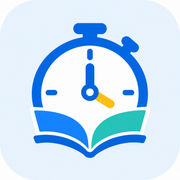
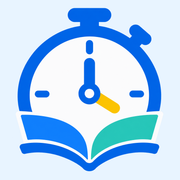
تعديل حجم الشعار

diff --git a/src/app/manifest.ts b/src/app/manifest.ts
@@ -3,9 +3,9 @@ import type { MetadataRoute } from "next";
 export default function manifest(): MetadataRoute.Manifest {
   return {
     id: "/",
-    name: "جدول الحصص",
-    short_name: "جدول الحصص",
-    description: "لوحة لعرض جدول الحصص اليومي وإدارته",
+    name: "مؤقت الحصص",
+    short_name: "مؤقت الحصص",
+    description: "مؤقت لمتابعة الحصص اليومية وإدارة مواعيدها",
     lang: "ar",
     dir: "rtl",
     start_url: "/",
@@ -14,9 +14,9 @@ export default function manifest(): MetadataRoute.Manifest {
     background_color: "#f1f5f9",
     theme_color: "#0066df",
     icons: [
-      { src: "/icons/icon-192.png", sizes: "192x192", type: "image/png", purpose: "any" },
-      { src: "/icons/icon-512.png", sizes: "512x512", type: "image/png", purpose: "any" },
-      { src: "/icons/icon-maskable-512.png", sizes: "512x512", type: "image/png", purpose: "maskable" },
+      { src: "/icons/icon-192.png?v=2", sizes: "192x192", type: "image/png", purpose: "any" },
+      { src: "/icons/icon-512.png?v=2", sizes: "512x512", type: "image/png", purpose: "any" },
+      { src: "/icons/icon-maskable-512.png?v=2", sizes: "512x512", type: "image/png", purpose: "maskable" },
     ],
   };
 }

diff --git a/src/app/layout.tsx b/src/app/layout.tsx
@@ -20,10 +20,10 @@ const cairo = Cairo({
 });
 
 export const metadata: Metadata = {
-  title: "جدول الحصص",
-  applicationName: "جدول الحصص",
-  appleWebApp: { capable: true, title: "جدول الحصص", statusBarStyle: "default" },
-  description: "لوحة لعرض جدول الحصص اليومي وإدارته",
+  title: "مؤقت الحصص",
+  applicationName: "مؤقت الحصص",
+  appleWebApp: { capable: true, title: "مؤقت الحصص", statusBarStyle: "default" },
+  description: "مؤقت لمتابعة الحصص اليومية وإدارة مواعيدها",
 };
 
 export const viewport: Viewport = { themeColor: "#0066df" };

diff --git a/src/app/page.tsx b/src/app/page.tsx
@@ -40,7 +40,7 @@ export default async function Home() {
     <main className="w-full max-w-full px-4 py-8 space-y-6 lg:px-10">
       <header className="flex items-center justify-between">
         <div>
-          <p className="text-sm text-slate-500">جدول الحصص اليومية</p>
+          <p className="text-sm text-slate-500">مؤقت الحصص</p>
           <h1 className="text-2xl font-bold text-slate-800">الجدول الزمني</h1>
         </div>
         <div className="flex items-center gap-3 text-xs text-slate-500">

diff --git a/docs/icon-generation.md b/docs/icon-generation.md
@@ -1,0 +1,14 @@
+# Class timer icons
+
+Edited with the built-in imagegen tool. Original: `public/icons/source.png`.
+Transparent master: `public/icons/logo-transparent.png`.
+
+Prompt:
+
+Use case: background-extraction. Edit target: supplied stopwatch and open-book app logo. Preserve the exact existing blue stopwatch, yellow clock hand, blue and turquoise book silhouette and white internal clock face and book separators. Remove only the exterior pale blue rounded tile and white exterior backdrop, replacing the exterior with genuine alpha transparency (not checkerboard pixels). Center the intact logo on a square transparent canvas with only 4% margin top and bottom, maximize size without cropping. Clean crisp edges suitable for a favicon. No text, no added shapes, no shadow, no redesign.
+
+Exports use Sharp for sizing and PNG/ICO encoding. Browser icons retain alpha.
+Installed icons and the 180px Apple icon use an opaque `#e8f4ff` background.
+Regular icons use 94% of the transparent master canvas; maskable sizing fits
+visible artwork (alpha > 32) within a centered radius of 39% of the final width.
+Manifest icon URLs carry `v=2` to distinguish this revision.
